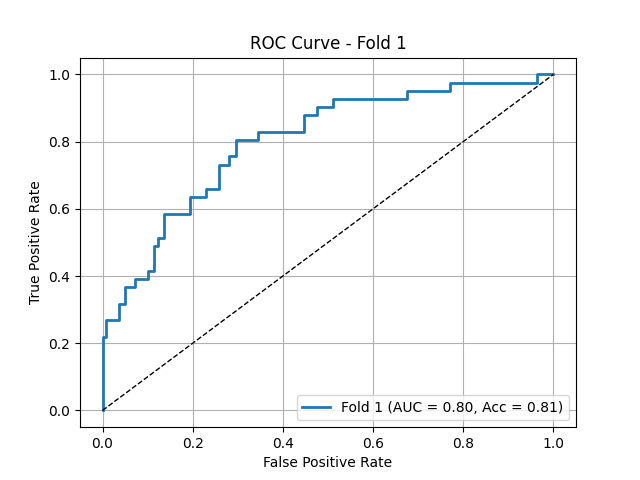
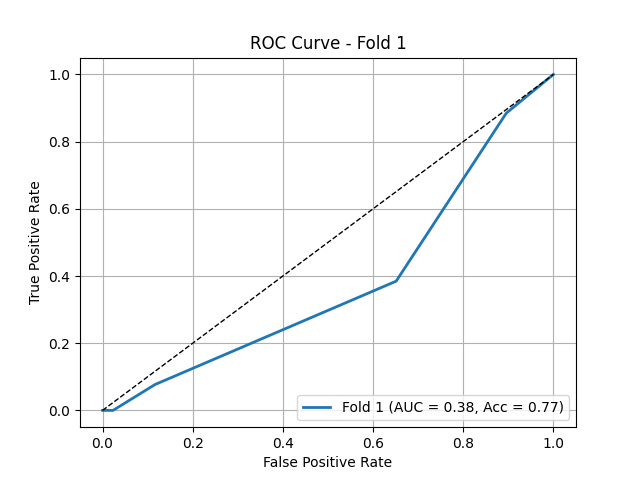
training with transformer models

diff --git a/fusion_models.py b/fusion_models.py
@@ -307,7 +307,7 @@ class ThreeModalTransformerClassifier(nn.Module):
         # 2. Add modality-specific tokens
         so2_patches += self.modality_tokens[0]
         thb_patches += self.modality_tokens[1]
-        #us_patches  += self.modality_tokens[2]
+        us_patches  += self.modality_tokens[2]
 
         # 3. Concatenate all patches with CLS token
         cls_tokens = self.cls_token.expand(B, -1, -1)  # [B, 1, D]
@@ -321,7 +321,7 @@ class ThreeModalTransformerClassifier(nn.Module):
 
         # 6. Classification head on CLS token
         cls_output = x[:, 0]
-        return self.mlp_head(cls_output)
+        return self.mlp_head(cls_output).squeeze()
     
     def compute_loss(self, x, y, x2_rad=None):
         y = y.float()  # Ensure targets are float for BCE loss
